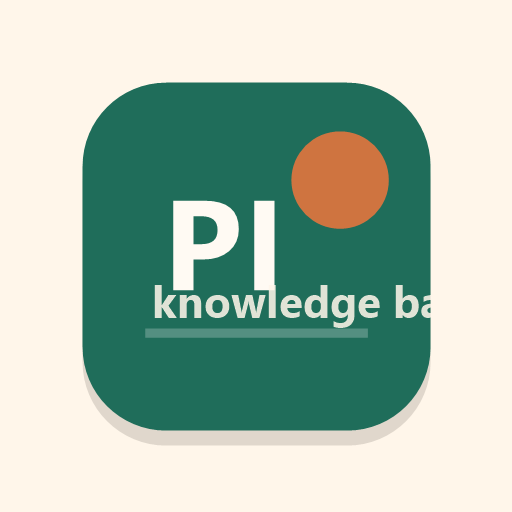
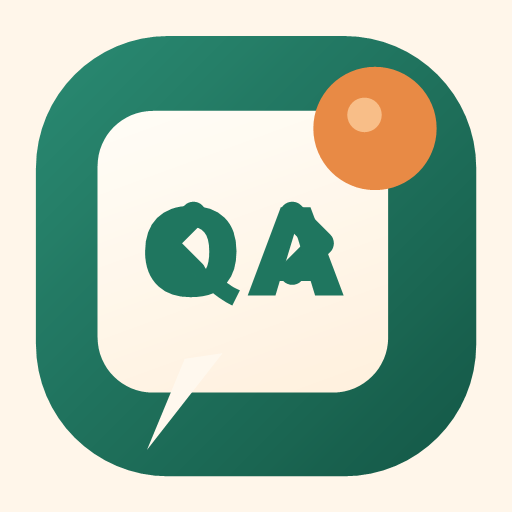
поменял фавикон

diff --git a/index.html b/index.html
@@ -10,15 +10,12 @@
     <meta name="application-name" content="Programming Interviewer" />
     <meta name="apple-mobile-web-app-capable" content="yes" />
     <meta name="apple-mobile-web-app-status-bar-style" content="default" />
-    <meta
-      name="apple-mobile-web-app-title"
-      content="Interviewer"
-    />
+    <meta name="apple-mobile-web-app-title" content="Interviewer" />
     <meta name="mobile-web-app-capable" content="yes" />
     <meta name="format-detection" content="telephone=no" />
     <meta
       name="description"
-      content="Личная база знаний по техническим темам с поиском, OCR и режимом собеседования."
+      content="Personal technical knowledge base with OCR search and interview practice."
     />
     <title>Programming Interviewer</title>
   </head>

diff --git a/public/sw.js b/public/sw.js
@@ -1,5 +1,5 @@
-const STATIC_CACHE = 'programming-interviewer-static-v1'
-const RUNTIME_CACHE = 'programming-interviewer-runtime-v1'
+const STATIC_CACHE = 'programming-interviewer-static-v2'
+const RUNTIME_CACHE = 'programming-interviewer-runtime-v2'
 const APP_SHELL_FILES = ['/', '/index.html', '/manifest.webmanifest', '/favicon.svg']
 
 self.addEventListener('install', (event) => {
